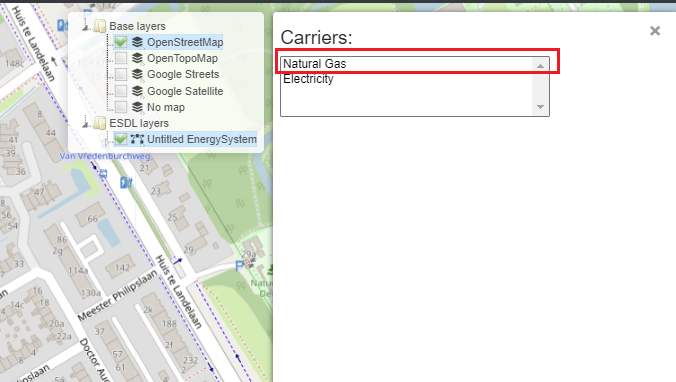
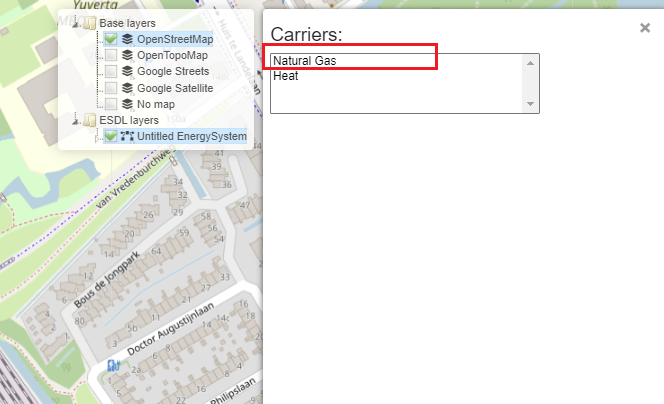
Corrected typos and added another image.

Changed region(s): [[0.0, 0.0, 1.0, 1.0], [0.7831, 0.2304, 0.8133, 0.3168], [0.9639, 0.0576, 0.994, 0.0864]]

diff --git a/docs/source/basic_tasks/defining_and_setting_energy_carriers.rst b/docs/source/basic_tasks/defining_and_setting_energy_carriers.rst
@@ -32,20 +32,27 @@ Repeat the same process to create Heat commodity.
 Assigning energy commodities to asset connections
 -------------------------------------------------
 
-Energy carriers and commodities created in the previous steps are assigned to connections between ESDL energy assets, i.e. to their In and Out ports. To assign the natural gas commodity to Import asset, right-click on Import and select *Set carrier*.
+Energy carriers and commodities created in the previous steps are assigned to connections between ESDL energy assets, i.e. to their InPorts and OutPorts. To assign the natural gas commodity to Import's OutPort asset, right-click on Import and select *Set carrier*.
 
 .. image:: images/adding_commodities5.png
    :width: 300
    :alt:
 
-A pop-up window opens with a list of created energy commodities (Natural Gas and Electricity, in this example). To assign Natural gas to Import asset, click on Natural Gas in the list of carriers. The window automatically closes, and Natural Gas is assigned to the OutPort of Import, and the InPort of GasHEater, as there already exists a connection between these two ports.
+A pop-up window opens with a list of created energy commodities (Natural Gas and Heat, in this example). To assign Natural Gas to Import asset, click on Natural Gas in the list of carriers. The window automatically closes, and Natural Gas is assigned to the OutPort of Import, and the InPort of GasHeater, as there already exists a connection between these two ports.
 
 .. image:: images/adding_commodities6.png
    :width: 300
    :alt:
 
-The connection between the Import and GasHeater is colored red (the color assigned to Natural Gas commodity), indicating the assigned commodity.
+The connection between the Import and GasHeater is colored in red (the color assigned to Natural Gas commodity), indicating the assigned commodity.
 
 .. image:: images/adding_commodities7.png
+   :width: 300
+   :alt:
+
+Repeat the same process to assign Heat commodity to HeatingDemand. This will assign Heat commodity to HeatingDemand's InPort, and to GasHeater's OutPort.
+Assigned commodities can be seen by clicking on an asset and navigating to the *Ports* group, as shown below for GasHeater.
+
+.. image:: images/adding_commodities8.png
    :width: 300
    :alt:

diff --git a/docs/source/basic_tasks/assigning_profiles.rst b/docs/source/basic_tasks/assigning_profiles.rst
@@ -29,7 +29,7 @@ To choose a heating demand profile of a typical Dutch neighborhood, select *NEDU
    :width: 300
    :alt:
 
-To set the value of 20 kWh demand per year, enter 20 in the *Multiplier* field (nr.1), and choose *Energy in kWh* from the *Quantity and Unit* dropdown menu (nr.2). To save the changes, click the *Add* button (nr.3).
+To set the value of 20 kWh heating demand per year, enter 20 in the *Multiplier* field (nr.1), and choose *Energy in kWh* from the *Quantity and Unit* dropdown menu (nr.2). To save the changes, click the *Add* button (nr.3).
 
 .. image:: images/assigning_profiles4.png
    :width: 300
